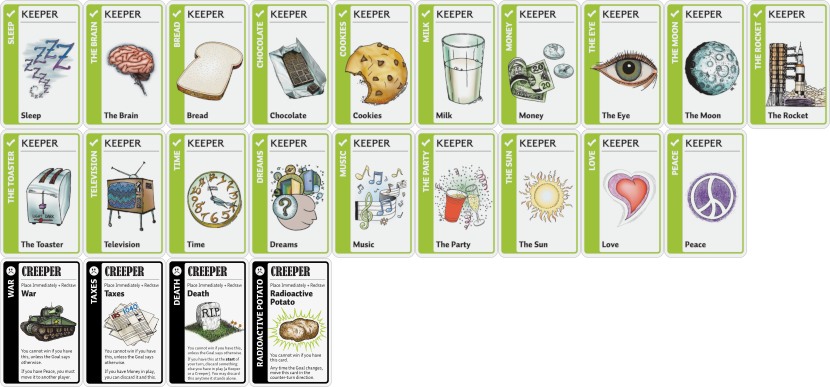
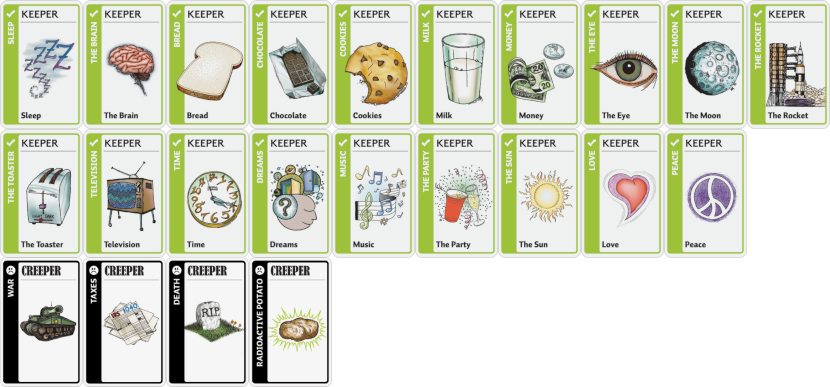
more layout improvements

Changed region(s): [[0.0, 0.6512, 0.3916, 0.9922]]

diff --git a/fluxx.js b/fluxx.js
@@ -190,7 +190,6 @@ define([
 
         this.goalsStock = this.createCardStock("goalsStock", ["goal"]);
         this.addCardsToStock(this.goalsStock, this.gamedatas.goals);
-        this.goalsStock.setOverlap(60);
 
         this.keepersStock = {};
         this.handCounter = {};
@@ -261,7 +260,7 @@ define([
       adaptForScreenSize: function() {
         if($('game_play_area') && this.handStock !== undefined){
           var viewPortWidth = dojo.position('game_play_area')['w'];
-          //console.log("viewPortWidth: ", viewPortWidth);
+          console.log("viewPortWidth: ", viewPortWidth);
           this.adaptCardOverlaps(viewPortWidth);
         }        
       },
@@ -324,11 +323,21 @@ define([
           this.adaptCardOverlapsForStock(stock, maxKeeperCardsInRow);
         }
 
-        if (this.viewPortWidth < 800) {
-          this.rulesStock.limits.setOverlap(40);
-        } else {
-          this.rulesStock.limits.setOverlap(0);
+        this.rulesStock.limits.setOverlap(0);
+        if (viewPortWidth < 800) {
+          this.rulesStock.limits.setOverlap(50);
+        } else if (viewPortWidth < 1024) {
+          this.rulesStock.limits.setOverlap(65);
         }
+        this.rulesStock.limits.resetItemsPosition();
+
+        this.goalsStock.setOverlap(80);
+        if (viewPortWidth < 800) {
+          this.goalsStock.setOverlap(45);
+        } else if (viewPortWidth < 1024) {
+          this.goalsStock.setOverlap(50);          
+        }
+        this.goalsStock.resetItemsPosition();
       },
 
       adaptCardOverlapsForStock(stock, maxCardsPerRow) {
@@ -544,7 +553,7 @@ define([
         for (var i = 0; i < count; i++) {
           stock.addItemType(
             materialOffset + i,
-            materialOffset + i,
+            0, // all no weight > keep in order as played, like on panels
             this.KEEPERS_SPRITES_PATH,
             spriteOffset + i
           );

diff --git a/modules/css/_cards.scss b/modules/css/_cards.scss
@@ -132,15 +132,6 @@ $color-rule: #D7B424;
   }
 }
 
-.flx-keepers {
-  .card-overlay-title {
-    display: none;
-  }
-  .card-overlay {
-    display: none;
-  }
-}
-
 .flx-card-action {
   .card-overlay {
     height: $card-height-inner - 5px;
@@ -180,5 +171,55 @@ $color-rule: #D7B424;
   }
   .card-description {
     margin-top: $card-height-inner * 0.40;    
+  }
+}
+
+.flx-keepers {
+  .card-overlay-title {
+    margin-left: 20px;
+    margin-right: 0px;
+    height: 14px;
+    width: 58px;
+
+    .card-type {
+      font-size: 12px;
+      margin-top: 8px;
+    }
+
+  }
+  .card-overlay {
+    margin-left: 20px;
+    margin-right: 0px;
+    width: 58px;
+
+    .card-name {
+      font-size: 10px;
+      margin-top: 2px;
+    }
+    .card-subtitle {
+      font-size: 5px;
+    }
+    .card-description {
+      font-size: 5px;
+    }
+  }
+
+  .flx-card-keeper {
+    .card-name {
+      margin-top: 88px;    
+    }
+  }
+
+  .flx-card-title-creeperpack {
+    .card-overlay-title {
+      .card-type {
+        margin-top: 6px;
+      }
+    }
+  }
+  .flx-card-creeper {
+    .card-description {
+      margin-top: 40px;    
+    }
   }
 }

diff --git a/fluxx.css b/fluxx.css
@@ -149,14 +149,6 @@
   font-size: 8px;
 }
 
-.flx-keepers .card-overlay-title {
-  display: none;
-}
-
-.flx-keepers .card-overlay {
-  display: none;
-}
-
 .flx-card-action .card-overlay {
   height: 174px;
 }
@@ -191,6 +183,49 @@
 
 .flx-card-creeper .card-description {
   margin-top: 71.6px;
+}
+
+.flx-keepers .card-overlay-title {
+  margin-left: 20px;
+  margin-right: 0px;
+  height: 14px;
+  width: 58px;
+}
+
+.flx-keepers .card-overlay-title .card-type {
+  font-size: 12px;
+  margin-top: 8px;
+}
+
+.flx-keepers .card-overlay {
+  margin-left: 20px;
+  margin-right: 0px;
+  width: 58px;
+}
+
+.flx-keepers .card-overlay .card-name {
+  font-size: 10px;
+  margin-top: 2px;
+}
+
+.flx-keepers .card-overlay .card-subtitle {
+  font-size: 5px;
+}
+
+.flx-keepers .card-overlay .card-description {
+  font-size: 5px;
+}
+
+.flx-keepers .flx-card-keeper .card-name {
+  margin-top: 88px;
+}
+
+.flx-keepers .flx-card-title-creeperpack .card-overlay-title .card-type {
+  margin-top: 6px;
+}
+
+.flx-keepers .flx-card-creeper .card-description {
+  margin-top: 40px;
 }
 
 #tmpHand:empty {
